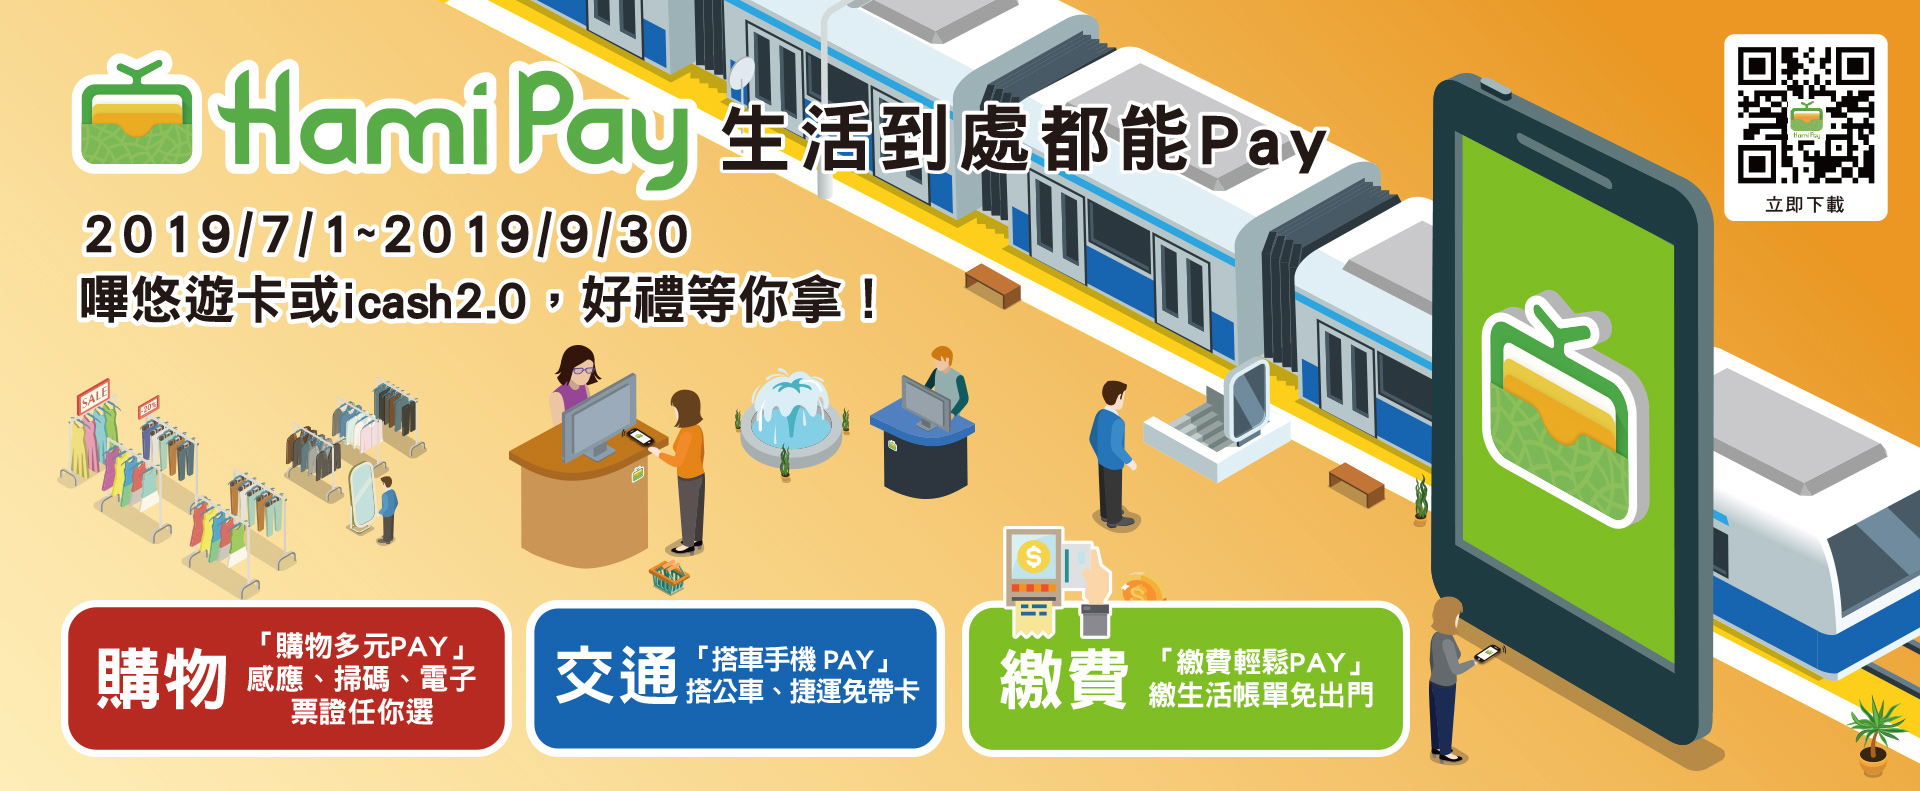
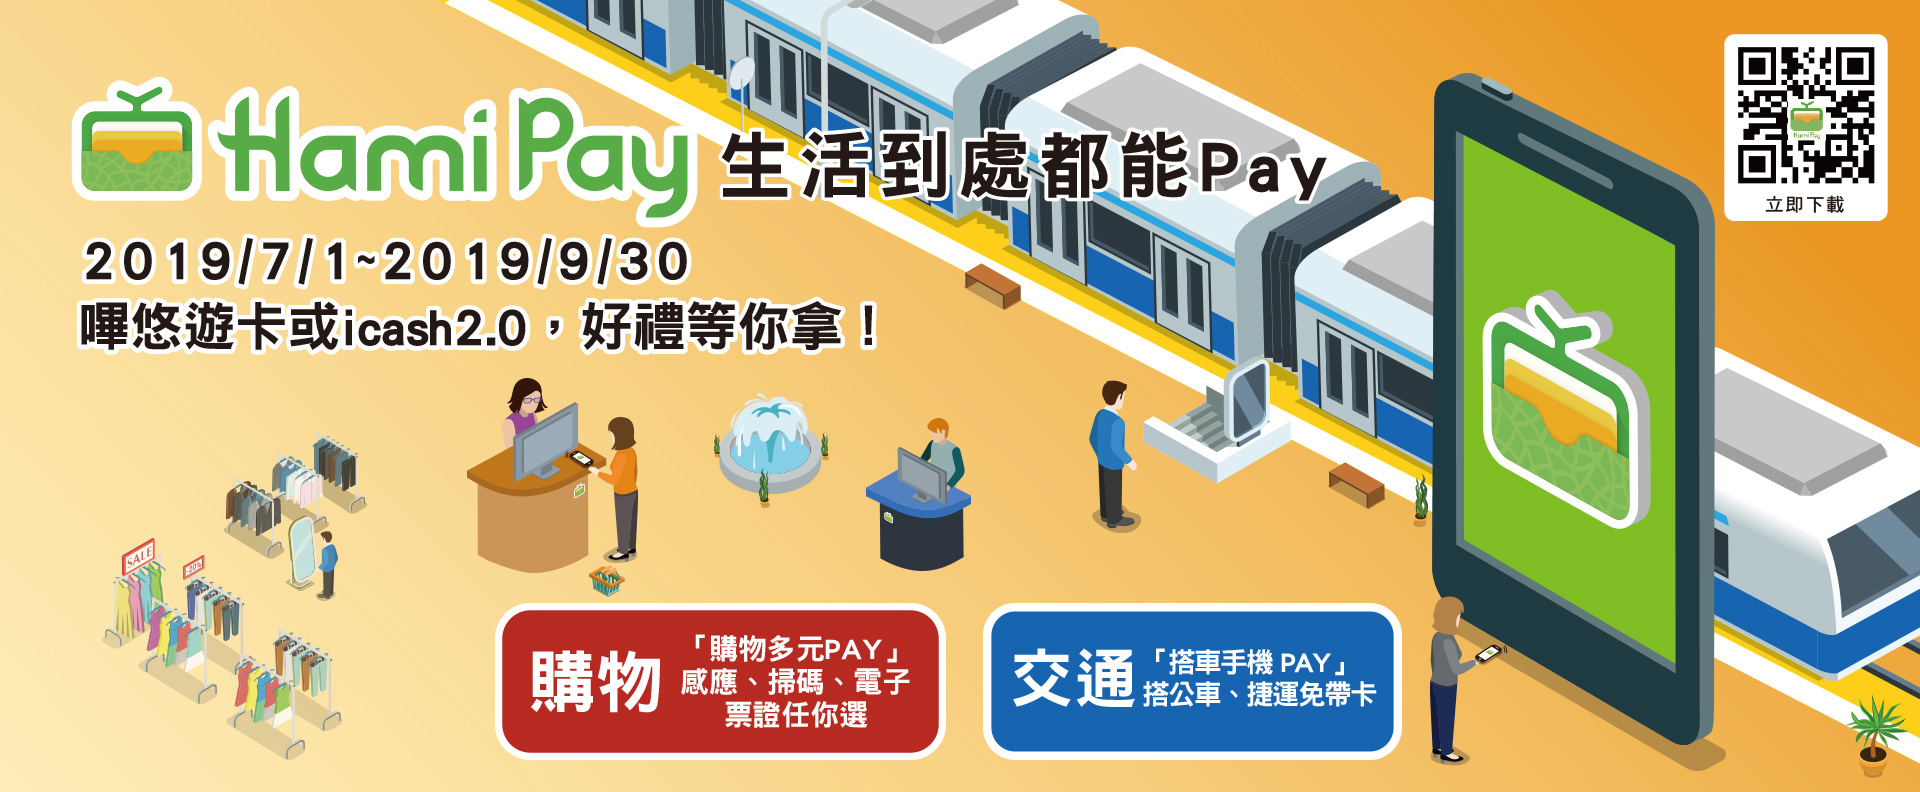
HamiPay

diff --git a/demo/HamiPay_v2/index_m.html b/demo/HamiPay_v2/index_m.html
@@ -100,7 +100,7 @@
 			<map name="image-a">
 			    <area target="_blank" href="/" data-featherlight="#fl3" coords="294,144,376,169" shape="rect">
 			</map>
-		<img id="smart" src="images/section_01-03-m.jpg" >
+		<!--<img id="smart" src="images/section_01-03-m.jpg" >-->
 		<img id="hamipay" src="images/section_01-04-m.jpg" >
 		<img id="Menu-intro" src="images/section_02-m.jpg" usemap="#image-map002">
 		<map name="image-map002">
@@ -134,11 +134,11 @@
 			<h2>活動注意事項:</h2>
 				<ol>
                     <li>使用Hami Pay進行消費，需先下載App完成註冊。其中Hami Pay悠遊卡及Hami Pay icash2.0功能，須先持有具NFC功能之Android智慧型手機，以及中華電信4G月租型門號之NFC SIM卡，並完成記名申請後方可使用。</li>
-<li>Hami Pay悠遊卡及智慧繳費活動所有獎項，統一於活動結束後抽出。Hami Pay悠遊卡活動「新舊用戶皆可抽獎」如遇商品缺貨，則改送同價值之商品。</li>
+<li>Hami Pay悠遊卡活動所有獎項，統一於活動結束後抽出，「新舊用戶皆可抽」如遇商品缺貨，則改送同價值之商品。</li>
 <li>Hami Pay悠遊卡活動之消費，排除搭乘公車、捷運、火車…等交通工具、代收、單筆消費0元、現金及自動加值之交易。</li>
 <li>Hami Pay悠遊卡活動「新舊用戶皆可抽」於活動期間，每一門號限有一次中獎資格，每月抽獎機會重新計算。</li>
 <li>Hami Pay悠遊卡活動「新用戶加碼抽」，僅限首次使用當月可享抽獎機會一次。</li>
-<li>Hami Point將於各別活動結束後次次月底前（悠遊卡活動為2019/11/30前，智慧繳費繳燃料費活動為2019/9/30前）匯入中獎門號之中華電信會員帳戶。Hami Point點數使用期限至2020/12/31，逾期失效。</li>
+<li>Hami Point將於2019/11/30前，匯入中獎門號之中華電信會員帳戶，點數使用期限至2020/12/31，逾期失效。</li>
 <li>Hami Point1點=1元，可折抵電信費或兌換多樣商品電子票券。欲查詢點數及兌換商品，請至Hami Pay App >「我的點數」進行查詢及兌換商品。</li>
 <li>Hami Pay 悠遊卡活動中獎之用戶，於領取獲贈之贈品或Hami Point點數時，所持之悠遊卡須為有效卡，且悠遊卡功能需為正常，若已遭停用、凍結、延遲繳款或違反銀行信用卡會員約定條款、悠遊卡定型化契約等情事，將喪失中獎資格。</li>
 <li>Hami Pay icash2.0活動期間首刷禮每個手機門號限兌換一次，且該手機門號於2019/7/1前未有消費紀錄過。</li>

diff --git a/demo/HamiPay_v2/index.html b/demo/HamiPay_v2/index.html
@@ -137,7 +137,7 @@ gtag('config', 'UA-112390676-5');
 			<map name="image-a">
 			        <area target="_blank" href="/" data-featherlight="#fl3" coords="910,317,1088,377" shape="rect">
 			</map>
-			<img id="smart" src="images/section_01-3.jpg" >
+			<!--<img id="smart" src="images/section_01-3.jpg" >-->
 			<img id="hamipay" src="images/section_01-4.jpg" >
 		</div>
 		<div class="title">
@@ -197,11 +197,11 @@ gtag('config', 'UA-112390676-5');
 				<h2>活動注意事項:</h2>
 				<ol>
                     <li>使用Hami Pay進行消費，需先下載App完成註冊。其中Hami Pay悠遊卡及Hami Pay icash2.0功能，須先持有具NFC功能之Android智慧型手機，以及中華電信4G月租型門號之NFC SIM卡，並完成記名申請後方可使用。</li>
-<li>Hami Pay悠遊卡及智慧繳費活動所有獎項，統一於活動結束後抽出。Hami Pay悠遊卡活動「新舊用戶皆可抽獎」如遇商品缺貨，則改送同價值之商品。</li>
+<li>Hami Pay悠遊卡活動所有獎項，統一於活動結束後抽出，「新舊用戶皆可抽」如遇商品缺貨，則改送同價值之商品。。</li>
 <li>Hami Pay悠遊卡活動之消費，排除搭乘公車、捷運、火車…等交通工具、代收、單筆消費0元、現金及自動加值之交易。</li>
 <li>Hami Pay悠遊卡活動「新舊用戶皆可抽」於活動期間，每一門號限有一次中獎資格，每月抽獎機會重新計算。</li>
 <li>Hami Pay悠遊卡活動「新用戶加碼抽」，僅限首次使用當月可享抽獎機會一次。</li>
-<li>Hami Point將於各別活動結束後次次月底前（悠遊卡活動為2019/11/30前，智慧繳費繳燃料費活動為2019/9/30前）匯入中獎門號之中華電信會員帳戶。Hami Point點數使用期限至2020/12/31，逾期失效。</li>
+<li>Hami Point將於2019/11/30前，匯入中獎門號之中華電信會員帳戶，點數使用期限至2020/12/31，逾期失效。</li>
 <li>Hami Point1點=1元，可折抵電信費或兌換多樣商品電子票券。欲查詢點數及兌換商品，請至Hami Pay App >「我的點數」進行查詢及兌換商品。</li>
 <li>Hami Pay 悠遊卡活動中獎之用戶，於領取獲贈之贈品或Hami Point點數時，所持之悠遊卡須為有效卡，且悠遊卡功能需為正常，若已遭停用、凍結、延遲繳款或違反銀行信用卡會員約定條款、悠遊卡定型化契約等情事，將喪失中獎資格。</li>
 <li>Hami Pay icash2.0活動期間首刷禮每個手機門號限兌換一次，且該手機門號於2019/7/1前未有消費紀錄過。</li>
